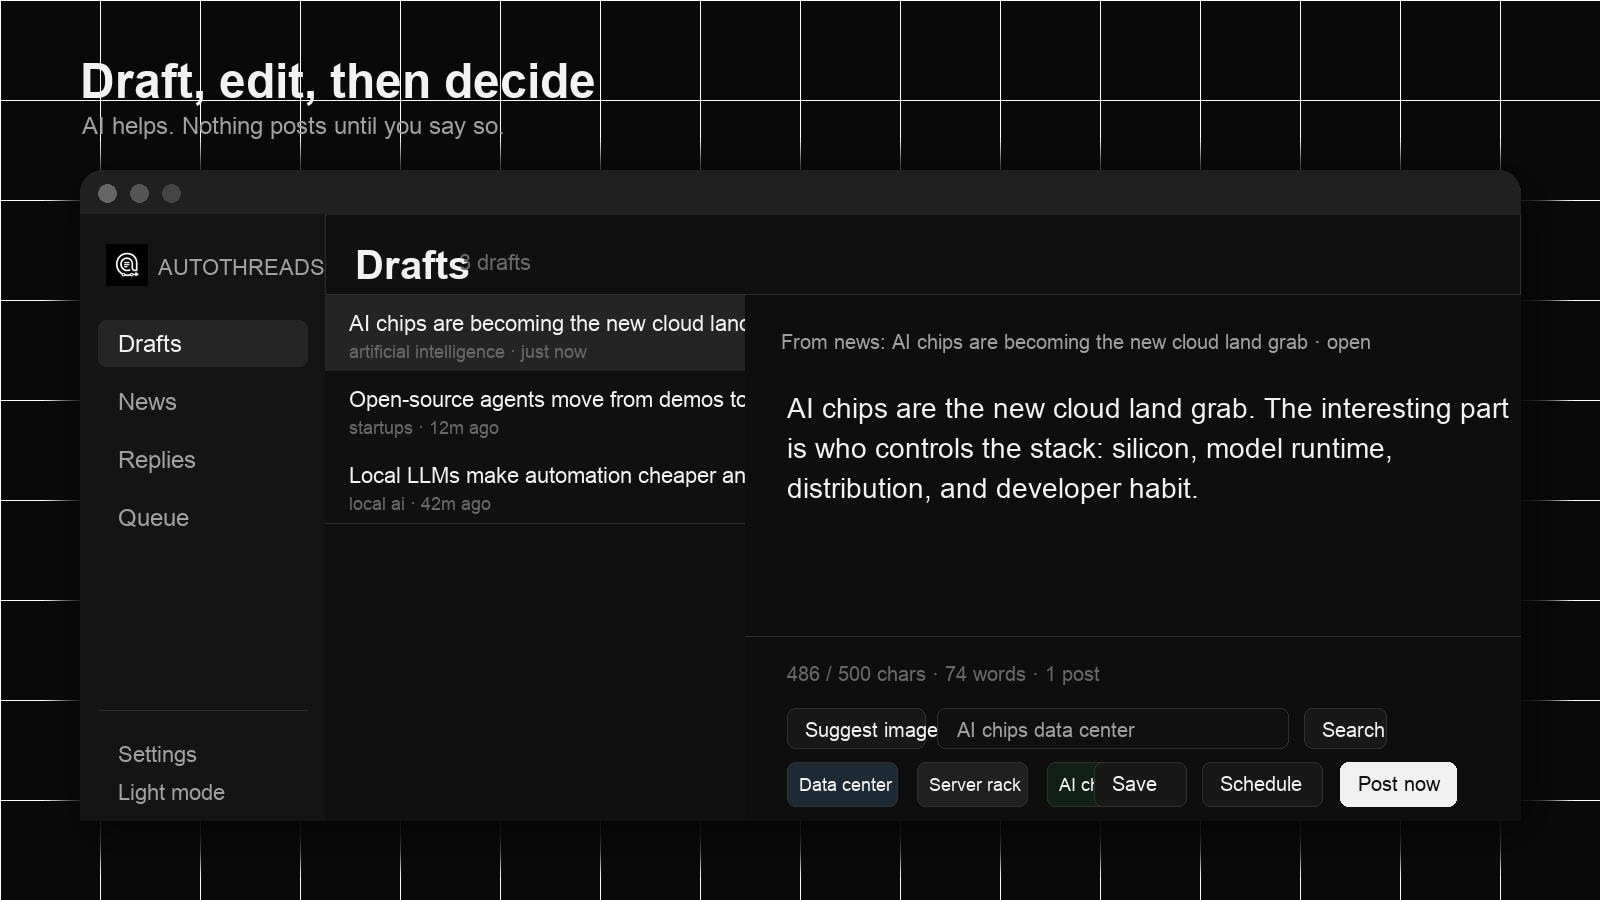
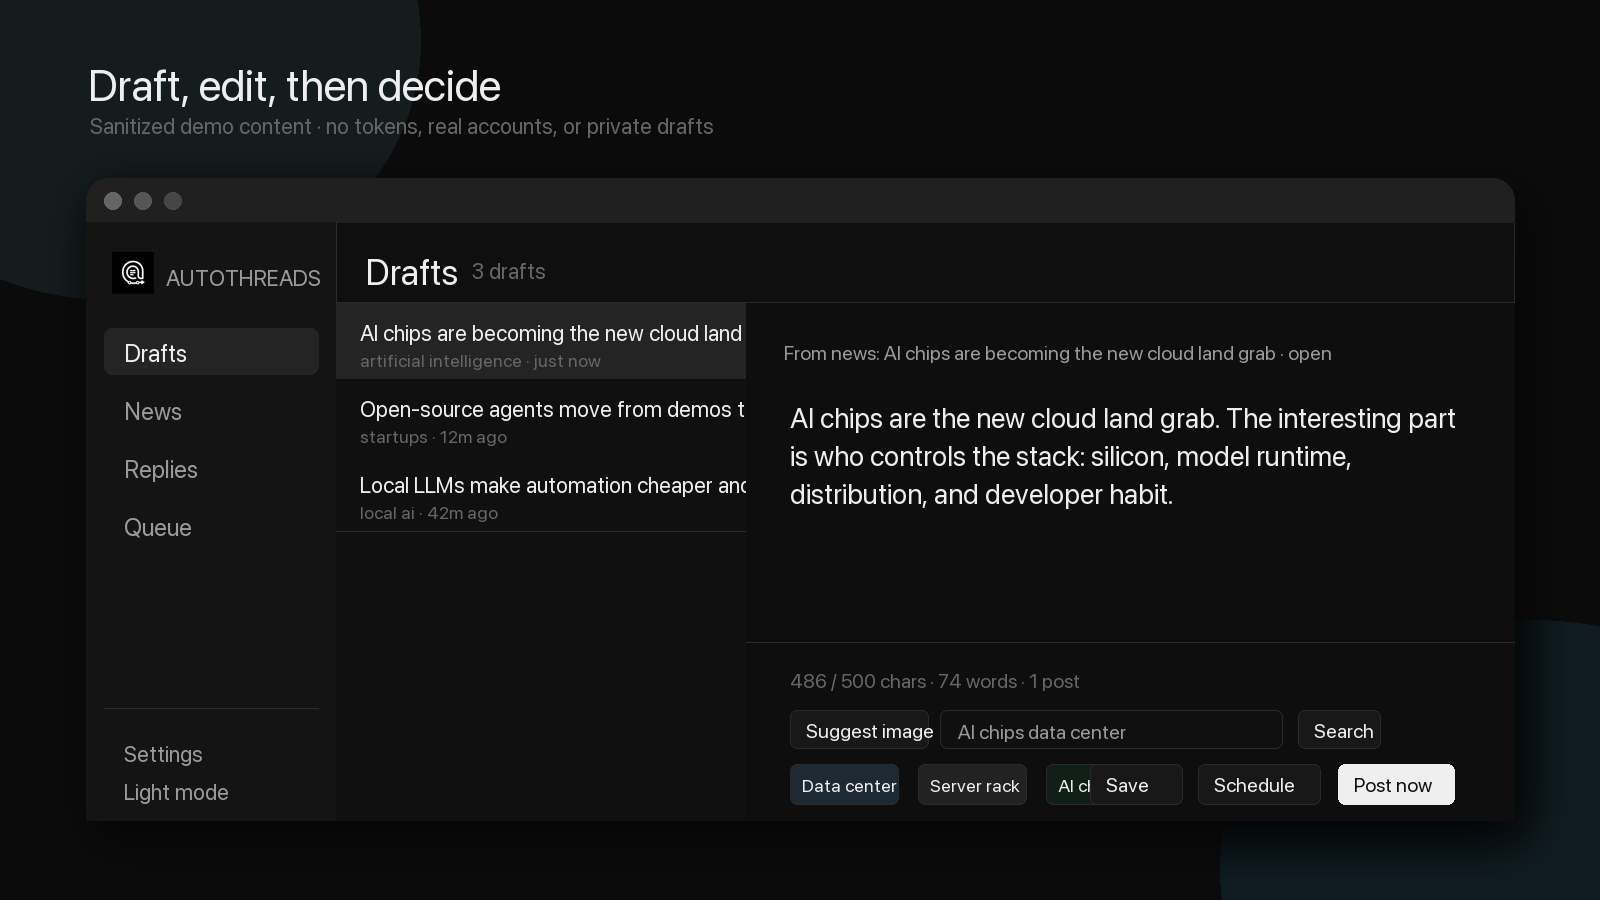
Fix image previews and README assets

diff --git a/index.html b/index.html
@@ -4,7 +4,7 @@
     <meta charset="UTF-8" />
     <meta
       http-equiv="Content-Security-Policy"
-      content="default-src 'self'; script-src 'self'; style-src 'self' 'unsafe-inline'; img-src 'self' data:; connect-src 'self' http://localhost:5174 ws://localhost:5174; font-src 'self'"
+      content="default-src 'self'; script-src 'self'; style-src 'self' 'unsafe-inline'; img-src 'self' data: https: http:; connect-src 'self' http://localhost:5174 ws://localhost:5174; font-src 'self'"
     />
     <meta name="viewport" content="width=device-width, initial-scale=1.0" />
     <title>AutoThreads</title>

diff --git a/_changelog/2026.07.04_changelog.md b/_changelog/2026.07.04_changelog.md
@@ -1,5 +1,13 @@
 # Changelog — 2026.07.04
 
+## Release 0.1.7 — README Polish + Image Preview Fix
+
+### Fixed
+- Remote image previews now render in the draft image picker by allowing HTTP/HTTPS image sources in the renderer Content Security Policy. (`index.html`)
+
+### Changed
+- README now uses the provided `src/assets/banner.png` hero and cleaner sanitized screenshots without distracting grid borders or clipped UI text. (`README.md`, `docs/assets/`)
+
 ## Release 0.1.6 — AutoThreads Logo
 
 ### Added

diff --git a/README.md b/README.md
@@ -1,6 +1,6 @@
 <div align="center">
 
-<img src="docs/assets/autothreads-hero.png" alt="AutoThreads hero banner" width="100%" />
+<img src="src/assets/banner.png" alt="AutoThreads hero banner" width="100%" />
 
 # AutoThreads
 
